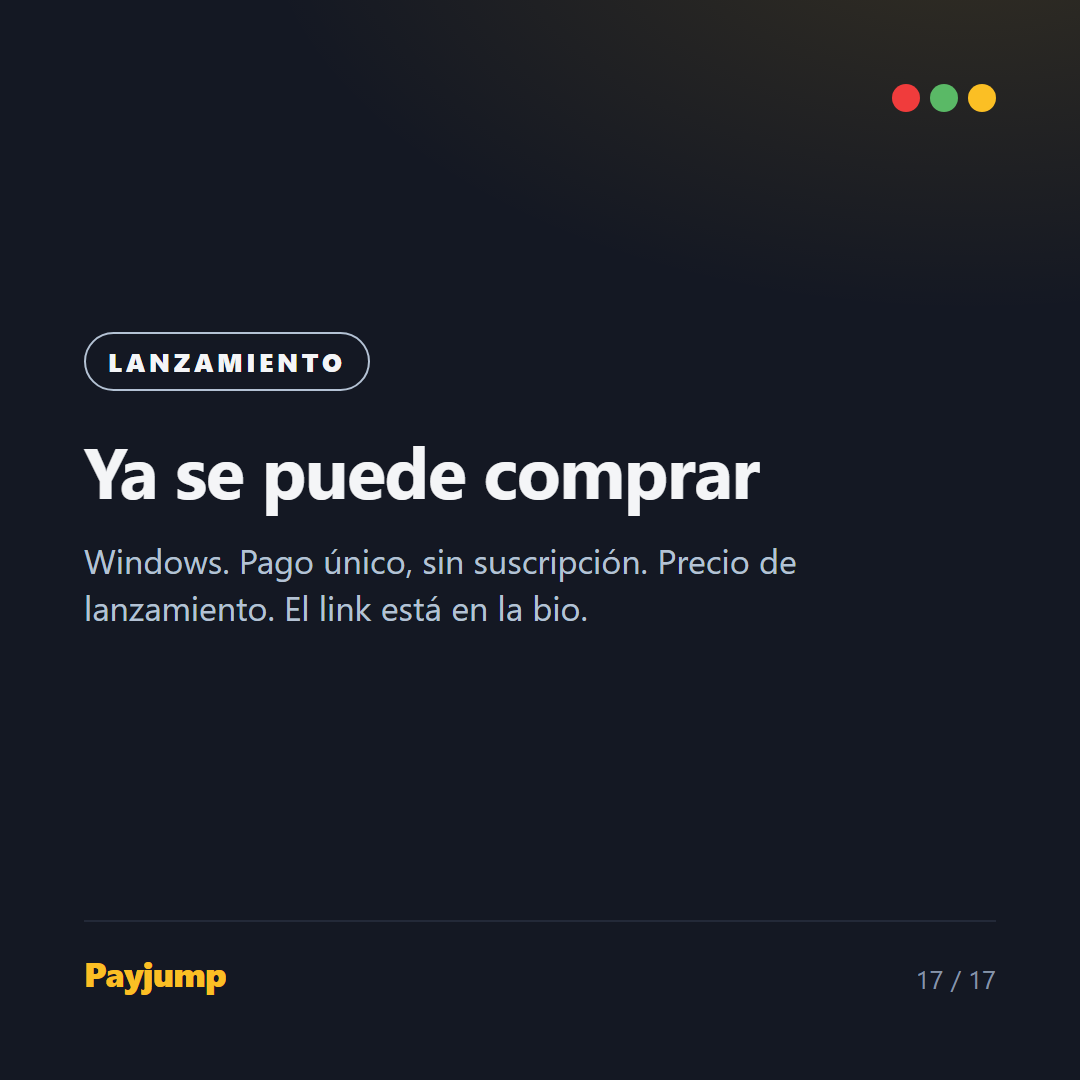
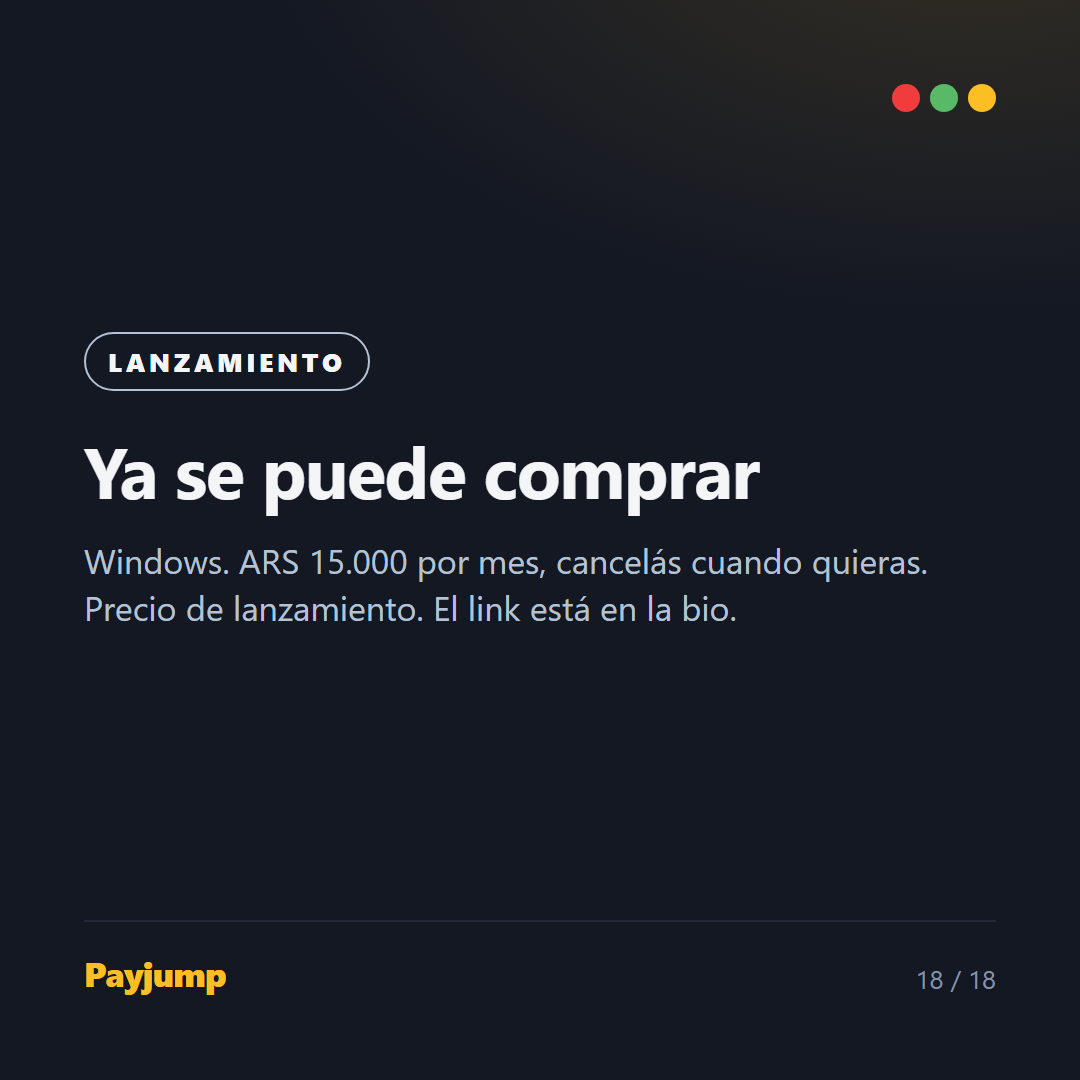
Suscripcion mensual ARS 15.000: precio, FAQ y pagina de gracias

Changed region(s): [[0.0611, 0.4889, 0.8556, 0.5806], [0.8556, 0.8861, 0.8861, 0.9167]]

diff --git a/index.html b/index.html
@@ -6,7 +6,7 @@
 <!-- MARCA: el nombre se publico el 2026-10-21 (decision del usuario).
      El dominio canonico es payjumppoker.com; mientras no este comprado, GitHub Pages. -->
 <title>Payjump</title>
-<meta name="description" content="Encontrá el error que más fichas te cuesta en tus torneos online de Texas Hold'em. Diagnóstico sobre tus manos reales, replay, teoría y trainer. Windows, 100% local, pago único.">
+<meta name="description" content="Encontrá el error que más fichas te cuesta en tus torneos online de Texas Hold'em. Diagnóstico sobre tus manos reales, replay, teoría y trainer. Windows, tus manos no salen de tu PC. Suscripción mensual, cancelás cuando quieras.">
 <meta property="og:title" content="Payjump — el error que más fichas te cuesta">
 <meta property="og:description" content="Diagnóstico de tus torneos online, mano por mano. Sin PokerTracker. 100% local.">
 <meta property="og:image" content="https://payjumppoker.com/img/diagnostico.png">
@@ -190,7 +190,7 @@
       <div class="card"><h3>Push/fold anclado en Nash</h3><p>Con 12bb o menos, el chart es el equilibrio: ni "abrir chico" ni "esperar una mejor".</p></div>
       <div class="card"><h3>Postflop por textura</h3><p>C-bet de flop, segundo barril y river, juzgados según el board y quién pagó.</p></div>
       <div class="card"><h3>Tu nivel contra el pool</h3><p>Tus stats comparadas contra cómo juega el campo a tu buy-in, medido sobre 1,6 millones de manos de rivales.</p></div>
-      <div class="card"><h3>100% local</h3><p>No se conecta a la sala ni a ningún servidor. Tus manos no salen de tu PC. Cerrala antes de sentarte a jugar.</p></div>
+      <div class="card"><h3>Tus manos no salen de tu PC</h3><p>No se conecta a la sala. Lo único que consulta por internet, una vez por día, es si tu suscripción está al día. Cerrala antes de sentarte a jugar.</p></div>
     </div>
     <h3 style="margin-top:36px;">Compatibilidad</h3>
     <div class="pills">
@@ -207,18 +207,18 @@
   <div class="wrap">
     <div class="price-card">
       <div class="eyebrow">Precio de lanzamiento</div>
-      <div class="price" id="precio-valor">USD 29</div>
-      <div class="muted">Pago único. Sin suscripción.</div>
+      <div class="price" id="precio-valor">ARS 15.000 <span style="font-size:.45em;font-weight:600;opacity:.8;">/ mes</span></div>
+      <div class="muted">Suscripción mensual. Cancelás cuando quieras, desde tu cuenta de Mercado Pago.</div>
       <ul>
-        <li>Licencia personal, una PC.</li>
-        <li><strong>Actualizaciones incluidas durante 12 meses</strong> desde la compra. Después, la versión que tenés sigue funcionando sin límite.</li>
-        <li>Instalador para Windows, listo en dos clicks.</li>
+        <li>Licencia personal, hasta dos computadoras.</li>
+        <li><strong>Todas las versiones nuevas incluidas</strong> mientras estés suscripto.</li>
+        <li>Instalador para Windows, listo en dos clicks. Se activa con tu mail, sin claves.</li>
         <li>Soporte por mail.</li>
       </ul>
-      <p class="soft">Es el precio de lanzamiento: va a subir cuando salga la versión siguiente. Quien compra ahora se queda con este precio y con los 12 meses de actualizaciones.</p>
-      <a class="btn btn-gold" id="btn-pagar" href="#" aria-disabled="true">Pagar con Mercado Pago</a>
+      <p class="soft">Es el precio de lanzamiento: va a subir cuando salga la versión siguiente. Quien se suscribe ahora conserva este precio mientras no cancele.</p>
+      <a class="btn btn-gold" id="btn-pagar" href="#" aria-disabled="true">Suscribirme con Mercado Pago</a>
       <div class="after-pay">
-        <strong>Después del pago:</strong> te mandamos el instalador y la guía de instalación al mail que usaste para pagar, dentro de las 24 h. Si en ese plazo no lo recibiste, escribinos a <a id="mail-link" href="#">el mail de soporte</a>.
+        <strong>Después de suscribirte:</strong> te llega un mail con el instalador. Lo instalás, ponés el mail de tu cuenta de Mercado Pago, pegás el código que te mandamos, y listo. Si en una hora no recibiste nada, revisá Spam y escribinos a <a id="mail-link" href="#">el mail de soporte</a>.
       </div>
     </div>
   </div>
@@ -232,9 +232,10 @@
     <details><summary>¿Sirve para cash games?</summary><p>No. Está hecho para torneos: stacks cortos, push/fold, ICM en burbuja y mesa final, bounties. Un rango de cash a 100bb no es lo que vas a jugar en un torneo.</p></details>
     <details><summary>¿De dónde salen los rangos?</summary><p>De rangos de referencia por posición y stack (chip-EV, Nash para push/fold), ajustados por ICM y bounty, y contrastados contra cómo juega el campo real. Podés ver el chart que juzgó cada mano, y editarlo si seguís otra escuela.</p></details>
     <details><summary>Windows dice "protegió su PC" al instalar</summary><p>Es porque el instalador todavía no tiene firma digital, no porque haya algo malo adentro. Click en <em>Más información</em> y después en <em>Ejecutar de todas formas</em>.</p></details>
-    <details><summary>¿Cómo recibo el programa?</summary><p>Con el link de descarga que te mandamos por mail después del pago. Cada versión nueva te llega al mismo mail.</p></details>
-    <details><summary>¿Qué pasa después de los 12 meses de actualizaciones?</summary><p>La versión que tenés instalada sigue funcionando igual, sin vencimiento ni bloqueo. Lo que dejás de recibir son las versiones nuevas; si querés seguir actualizando, se renueva a un precio menor que el de compra.</p></details>
-    <details><summary>¿Qué pasa con mis manos?</summary><p>Se quedan en tu PC, en una base local. No subimos nada a ningún servidor, no hay cuenta ni login.</p></details>
+    <details><summary>¿Cómo recibo el programa?</summary><p>Con el link de descarga que te mandamos por mail apenas se confirma la suscripción. Cada versión nueva te llega al mismo mail.</p></details>
+    <details><summary>¿Qué pasa si cancelo?</summary><p>La cancelás desde tu cuenta de Mercado Pago, sin escribirnos. Cuando termina el mes que ya pagaste, la app deja de analizar; tus manos y tu progreso quedan en tu PC, y si volvés a suscribirte seguís donde estabas.</p></details>
+    <details><summary>¿Qué pasa si se corta internet?</summary><p>La app sigue funcionando hasta 30 días sin conexión. Después pide conectarse una vez para confirmar que la suscripción está al día.</p></details>
+    <details><summary>¿Qué pasa con mis manos?</summary><p>Se quedan en tu PC, en una base local. No subimos manos a ningún servidor ni hay cuenta ni login: lo único que viaja es tu mail y un código de tu equipo, para validar la suscripción.</p></details>
   </div>
 </section>
 
@@ -247,16 +248,16 @@
 
 <script>
   // ---- Lo que hay que completar antes de publicar (ver marketing/LANZAMIENTO.md) ----
-  // Checkout Pro con vuelta a /gracias.html (marketing/mercadopago/crear_checkout.js, 2026-10-21, ARS 30.000).
-  // El link de pago viejo de la interfaz (https://mpago.la/22x8qa2) sigue vivo pero no vuelve al sitio.
-  const MP_LINK = 'https://www.mercadopago.com.ar/checkout/v1/redirect?pref_id=1991644-ff430bc5-8a58-4701-944c-5f68203945c0';
-  const PRECIO  = 'ARS 30.000';                 // lo que muestra la tarjeta de precio
+  // Plan de suscripcion mensual de Mercado Pago (marketing/mercadopago/crear_suscripcion.js, 2026-10-22, ARS 15.000/mes).
+  // El Checkout Pro de pago unico (pref_id=1991644-ff430bc5-..., ARS 30.000) sigue vivo pero ya no se linkea.
+  const MP_LINK = 'https://www.mercadopago.com.ar/subscriptions/checkout?preapproval_plan_id=cd6766d2fa434a99a35138603d61da52';
+  const PRECIO  = 'ARS 15.000';                 // lo que muestra la tarjeta de precio (el "/ mes" queda en el HTML)
   const MAIL    = 'support@payjumppoker.com';   // reenvia a Gmail (Porkbun Email Forwarding, 2026-10-21)
   const IG_URL  = 'https://www.instagram.com/payjumppoker/';
   // ------------------------------------------------------------------------------------
 
   document.getElementById('anio').textContent = new Date().getFullYear();
-  document.getElementById('precio-valor').textContent = PRECIO;
+  document.getElementById('precio-valor').firstChild.textContent = PRECIO + ' ';
 
   const pagar = document.getElementById('btn-pagar');
   if (MP_LINK) {

diff --git a/gracias.html b/gracias.html
@@ -5,9 +5,11 @@
 <meta name="viewport" content="width=device-width, initial-scale=1">
 <meta name="robots" content="noindex">
 <title>Payjump — gracias</title>
-<!-- Pagina de vuelta del checkout de Mercado Pago (marketing/mercadopago/crear_checkout.js).
-     MP agrega a la URL: collection_id, collection_status, payment_id, status,
-     external_reference, payment_type, merchant_order_id, preference_id. -->
+<!-- Pagina de vuelta de Mercado Pago.
+     Suscripcion (marketing/mercadopago/crear_suscripcion.js, 2026-10-22): el plan
+     vuelve a /gracias.html?tipo=suscripcion y MP puede agregar preapproval_id.
+     Pago unico (crear_checkout.js, 2026-10-21): MP agrega collection_id,
+     collection_status, payment_id, status, external_reference, etc. -->
 <style>
   :root { --surface: #141823; --surface-2: #1b2030; --text: #F4F5F7; --text-2: #B4C2D4; --gold: #FBBF24; --border: #232938; }
   body { margin: 0; background: var(--surface); color: var(--text); font: 16px/1.55 system-ui, -apple-system, "Segoe UI", Roboto, sans-serif; }
@@ -27,31 +29,41 @@
 <body>
 <div class="wrap">
   <div class="brand">Pay<b>jump</b></div>
-  <h1 id="titulo">Recibimos tu pago. Gracias.</h1>
-  <p id="lead">En menos de <strong>48 horas</strong> te llega el instalador al mail de tu cuenta de Mercado Pago.</p>
+  <h1 id="titulo">Tu suscripción está activa. Gracias.</h1>
+  <p id="lead">En unos minutos te llega el instalador al mail de tu cuenta de Mercado Pago.</p>
 
   <div class="card">
     <strong>Qué sigue</strong>
-    <ol>
+    <ol id="pasos">
       <li>Te mandamos un mail con el link del instalador y la guía.</li>
       <li>Lo instalás (dos clicks, sin contraseña de administrador).</li>
-      <li>La app te muestra un <em>código de equipo</em>; nos lo mandás y te respondemos con tu clave. Tu compra incluye hasta dos computadoras.</li>
+      <li>La app te pide el mail de tu cuenta de Mercado Pago, te manda un código de 6 dígitos, lo pegás y listo. Podés activarla en hasta dos computadoras.</li>
     </ol>
   </div>
 
-  <p class="soft">Operación <span class="op" id="op">—</span>. Si pasaron 48 horas y no te llegó nada, revisá Spam y escribinos a <a href="mailto:support@payjumppoker.com">support@payjumppoker.com</a> con ese número.</p>
+  <p class="soft" id="pie">Si en una hora no te llegó nada, revisá Spam y escribinos a <a href="mailto:support@payjumppoker.com">support@payjumppoker.com</a> desde el mail con el que te suscribiste. Podés cancelar cuando quieras desde tu cuenta de Mercado Pago, en Suscripciones.</p>
   <a class="btn" href="/">Volver al sitio</a>
 </div>
 <script>
   const q = new URLSearchParams(location.search);
+  const tipo = q.get('tipo') || (q.get('preapproval_id') ? 'suscripcion' : 'pago');
   const estado = q.get('estado') || q.get('status') || q.get('collection_status') || '';
-  const op = q.get('payment_id') || q.get('collection_id') || q.get('merchant_order_id') || '';
-  document.getElementById('op').textContent = op || 'sin número';
-  if (estado === 'pendiente' || estado === 'pending' || estado === 'in_process') {
-    document.getElementById('titulo').textContent = 'Tu pago está en proceso.';
-    document.getElementById('lead').innerHTML = 'Mercado Pago todavía no lo confirmó. Cuando se acredite, te mandamos el instalador dentro de las <strong>48 horas</strong>. No hace falta que hagas nada.';
-  } else if (estado === 'rejected' || estado === 'failure') {
-    document.getElementById('titulo').textContent = 'El pago no se pudo completar.';
+  if (tipo !== 'suscripcion') {
+    // Pago unico (checkout viejo): el instalador y la clave van a mano.
+    const op = q.get('payment_id') || q.get('collection_id') || q.get('merchant_order_id') || '';
+    document.getElementById('titulo').textContent = 'Recibimos tu pago. Gracias.';
+    document.getElementById('lead').innerHTML = 'En menos de <strong>48 horas</strong> te llega el instalador al mail de tu cuenta de Mercado Pago.';
+    document.getElementById('pasos').children[2].textContent = 'La app te muestra un código de equipo; nos lo mandás y te respondemos con tu clave. Tu compra incluye hasta dos computadoras.';
+    document.getElementById('pie').innerHTML = `Operación <span class="op">${op || 'sin número'}</span>. Si pasaron 48 horas y no te llegó nada, revisá Spam y escribinos a <a href="mailto:support@payjumppoker.com">support@payjumppoker.com</a> con ese número.`;
+    if (estado === 'pendiente' || estado === 'pending' || estado === 'in_process') {
+      document.getElementById('titulo').textContent = 'Tu pago está en proceso.';
+      document.getElementById('lead').innerHTML = 'Mercado Pago todavía no lo confirmó. Cuando se acredite, te mandamos el instalador dentro de las <strong>48 horas</strong>. No hace falta que hagas nada.';
+    } else if (estado === 'rejected' || estado === 'failure') {
+      document.getElementById('titulo').textContent = 'El pago no se pudo completar.';
+      document.getElementById('lead').innerHTML = 'No se te cobró nada. Podés intentar de nuevo desde <a href="/#precio">la página de compra</a> o escribirnos si el problema sigue.';
+    }
+  } else if (estado === 'rejected' || estado === 'failure' || estado === 'cancelled') {
+    document.getElementById('titulo').textContent = 'La suscripción no se pudo completar.';
     document.getElementById('lead').innerHTML = 'No se te cobró nada. Podés intentar de nuevo desde <a href="/#precio">la página de compra</a> o escribirnos si el problema sigue.';
   }
 </script>
